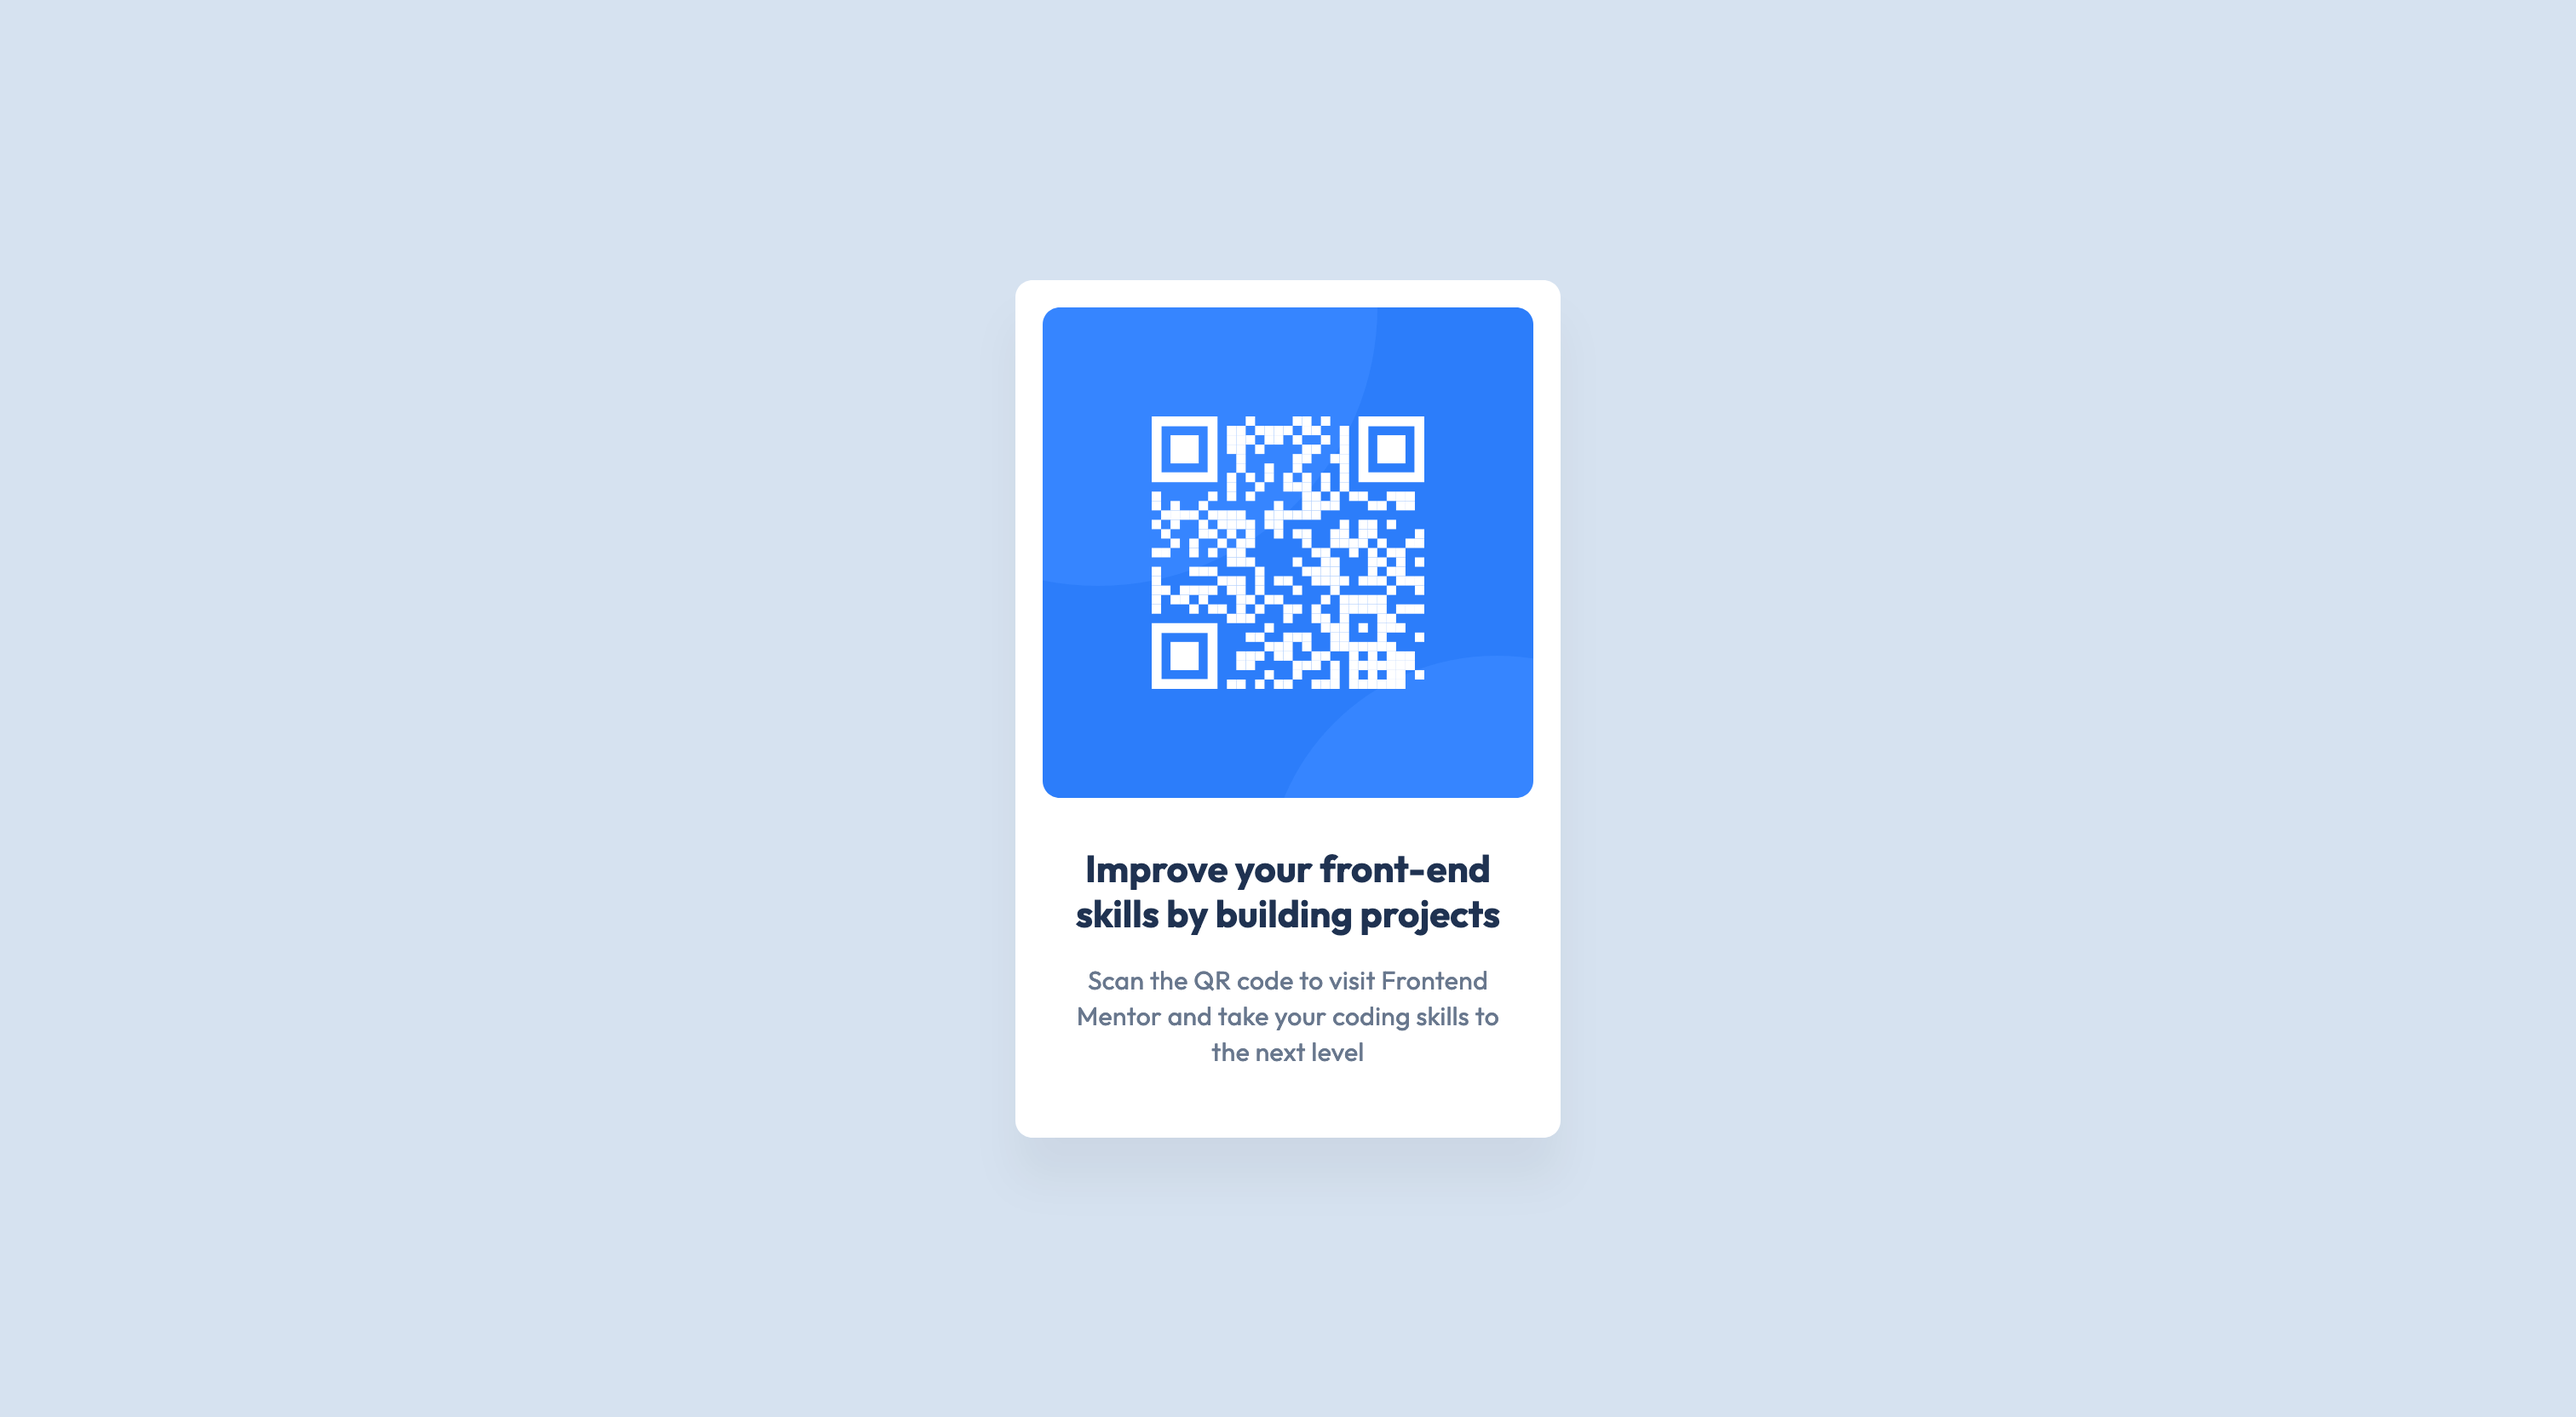
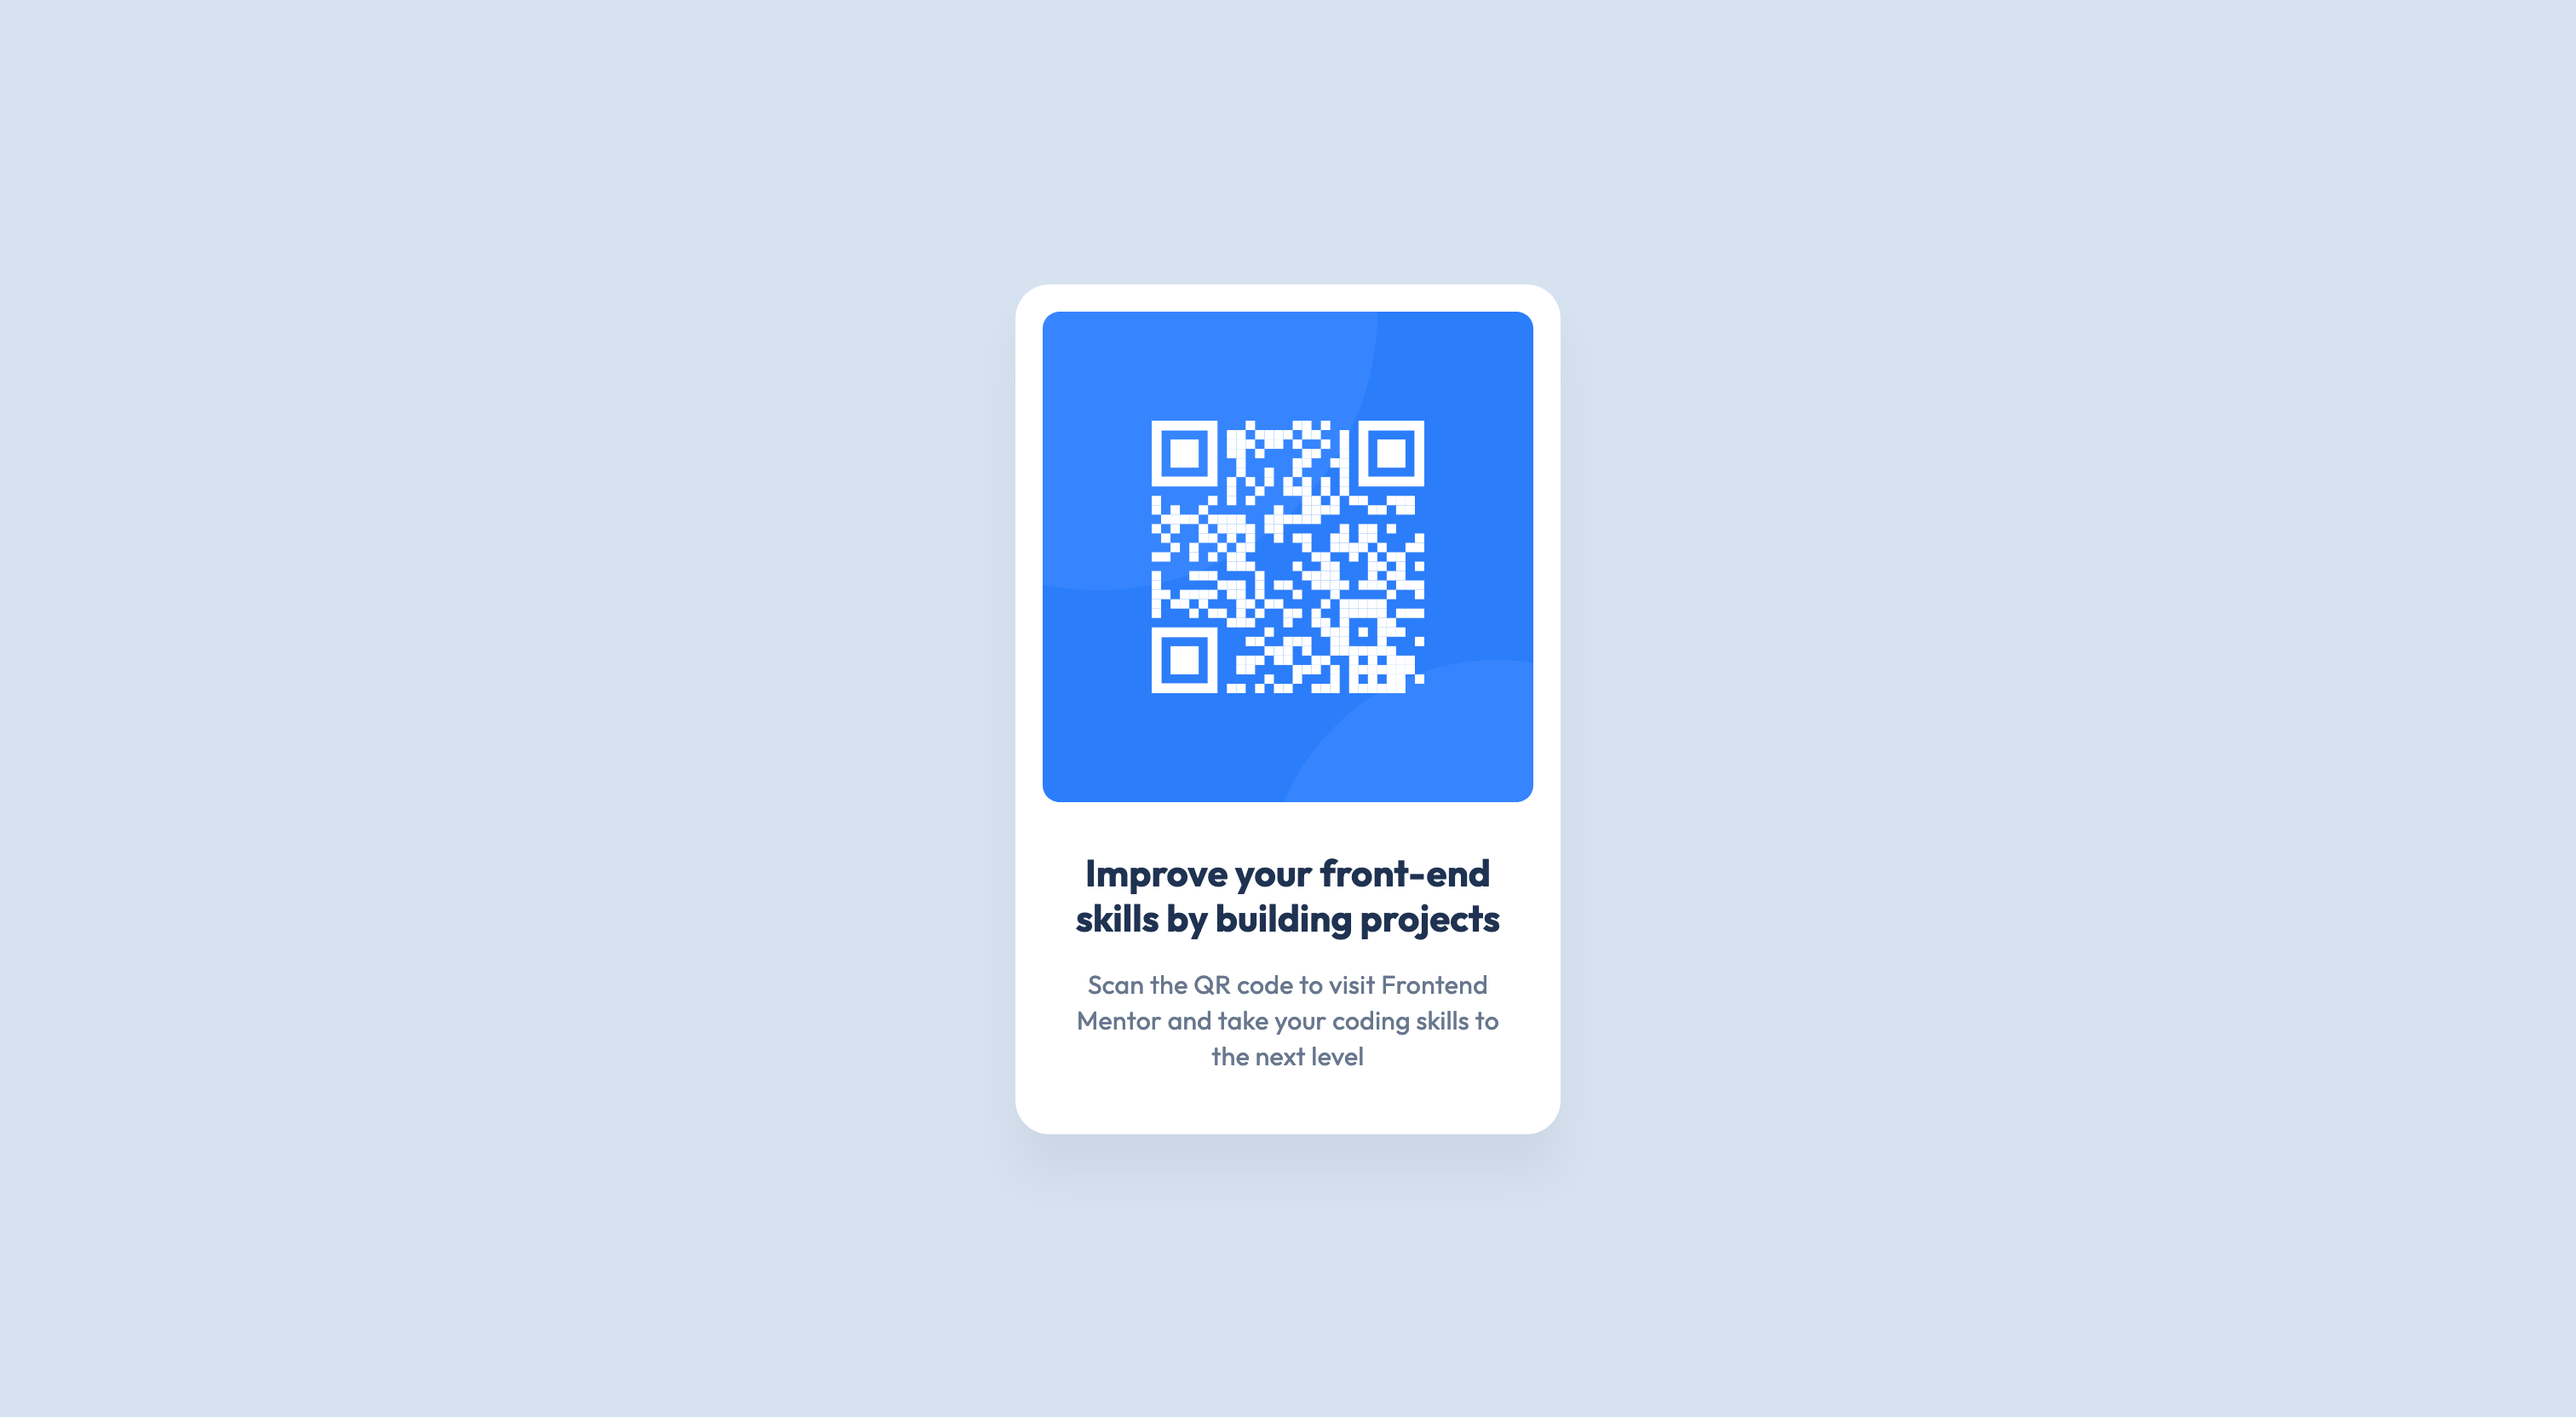
Fixing some CSS problems

diff --git a/css/styles.css b/css/styles.css
@@ -31,7 +31,8 @@ img {
 .qr-component__content {
     background: var(--white);
     width: 320px;
-    border-radius: 10px;
+    height: 499px;
+    border-radius: 20px;
     padding: 16px 16px 40px;
     box-shadow: 0px 25px 25px 0px rgba(0, 0, 0, 0.0477);
 }
